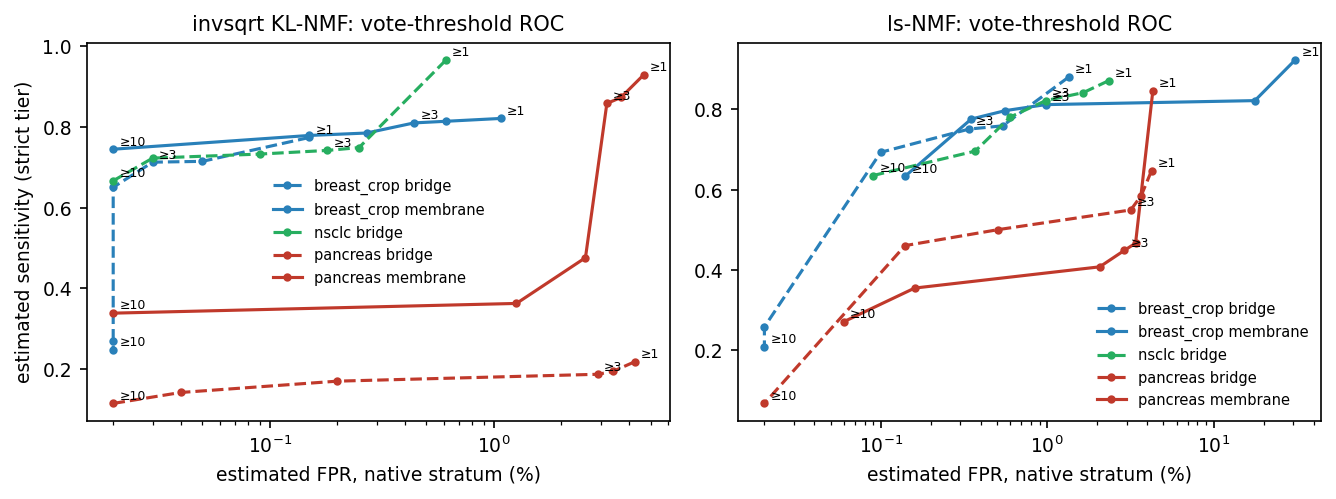
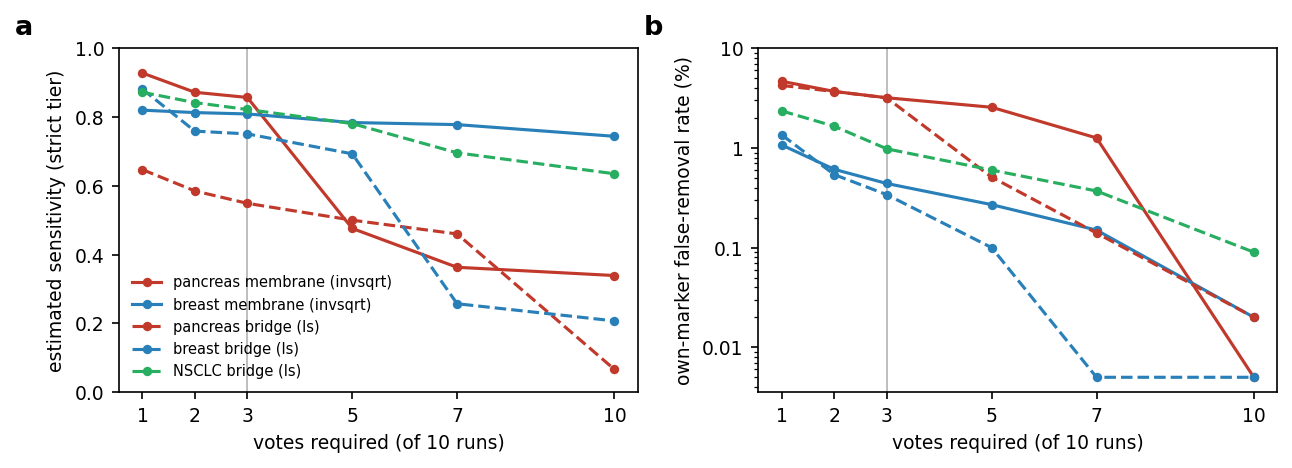
Plain-language metrics, threshold-dial figure, tightened stochasticity text

diff --git a/analysis/cleanup_benchmark/figures.py b/analysis/cleanup_benchmark/figures.py
@@ -66,47 +66,54 @@ fig.savefig(f'{OUT}/benchmark_fig1.png', bbox_inches='tight')
 print('fig1 done')
 
 # ---------- Figure 2: stochasticity ----------
+fo = pd.read_csv(f'{R}/pancreas_factor_overlap.csv')
 ov = json.load(open(f'{R}/pancreas_removal_overlap.json'))
-fig, axes = plt.subplots(1, 3, figsize=(11, 3.1),
-    gridspec_kw={'width_ratios': [1, 1, 1.4]})
-ax = axes[0]
-ax.annotate('a', (-0.28, 1.06), xycoords='axes fraction', fontsize=13, fontweight='bold')
-x = np.arange(1, 11)
-ax.bar(x - 0.2, np.array(ov['invsqrt_kl']['n_removed']) / 1e6, width=0.4,
-    color='#8e44ad', label='invsqrt KL-NMF')
-ax.bar(x + 0.2, np.array(ov['ls_nmf']['n_removed']) / 1e6, width=0.4,
-    color='#16a085', label='ls-NMF')
-ax.set_xlabel('random seed'); ax.set_ylabel('molecules removed (millions)')
-ax.set_xticks(range(1, 11))
-ax.legend(frameon=False, fontsize=8)
-ax.set_title('total removal by seed')
+dec_path = f'{R}/pancreas_decisions.csv'
+have_dec = os.path.exists(dec_path)
+vcolors = {'ls_nmf': '#16a085', 'invsqrt_kl': '#8e44ad'}
+vnames = {'ls_nmf': 'ls-NMF', 'invsqrt_kl': 'invsqrt\nKL-NMF'}
 
-ax = axes[1]
-ax.annotate('b', (-0.28, 1.06), xycoords='axes fraction', fontsize=13, fontweight='bold')
-J = np.array(ov['invsqrt_kl']['jaccard'])
-im = ax.imshow(J, vmin=0, vmax=1, cmap='viridis')
-ax.set_xticks(range(10), range(1, 11), fontsize=7)
-ax.set_yticks(range(10), range(1, 11), fontsize=7)
-ax.set_xlabel('seed'); ax.set_ylabel('seed')
-ax.set_title('removal-set overlap (Jaccard),\ninvsqrt KL-NMF')
-plt.colorbar(im, ax=ax, fraction=0.045)
+def dot_panel(ax, data, letter, ylab, title):
+    for k, variant in enumerate(['ls_nmf', 'invsqrt_kl']):
+        v = np.asarray(data[variant])
+        x = k + (np.random.default_rng(0).uniform(-0.14, 0.14, len(v)))
+        ax.scatter(x, v, s=9, color=vcolors[variant], alpha=0.6)
+        ax.hlines(np.median(v), k - 0.25, k + 0.25, color='black', lw=1.8)
+    ax.set_xticks([0, 1], [vnames['ls_nmf'], vnames['invsqrt_kl']])
+    ax.set_xlim(-0.6, 1.6)
+    ax.set_ylim(0, 1.02)
+    ax.set_ylabel(ylab)
+    ax.set_title(title, fontsize=9)
+    ax.annotate(letter, (-0.28, 1.05), xycoords='axes fraction',
+        fontsize=13, fontweight='bold')
 
-ax = axes[2]
-ax.annotate('c', (-0.55, 1.06), xycoords='axes fraction', fontsize=13, fontweight='bold')
-pp = pairs_df[(pairs_df['variant'] == 'invsqrt_kl') & (pairs_df['method'] == 'membrane')
-              & pairs_df['arm'].str.match(r'invsqrt_kl/membrane/s\d')]
-piv = pp.pivot_table(index='pair', columns='seed', values='power_strict')
-piv = piv.dropna().sort_values(1)
-im = ax.imshow(piv.values, aspect='auto', cmap='RdYlBu', vmin=0, vmax=1)
-ax.set_xticks(range(piv.shape[1]), [f's{int(c)}' for c in piv.columns])
-ax.set_yticks(range(len(piv)), [short(p) for p in piv.index], fontsize=5)
-ax.set_title('per-pair sensitivity by seed,\ninvsqrt KL-NMF / membrane')
-plt.colorbar(im, ax=ax, fraction=0.03, label='sensitivity')
+fig, axes = plt.subplots(1, 3, figsize=(9.2, 3.0))
+dot_panel(axes[0],
+    {v: fo[fo['variant'] == v]['corr'].values for v in ['ls_nmf', 'invsqrt_kl']},
+    'a', 'gene-ownership correlation\nof matched factors', 'factor variability')
+if have_dec:
+    dec = pd.read_csv(dec_path)
+    dec = dec[dec['method'] == 'membrane']
+    dd = {}
+    for variant in ['ls_nmf', 'invsqrt_kl']:
+        sets = {s_: set(map(tuple, g[['source', 'target']].values))
+                for s_, g in dec[dec['variant'] == variant].groupby('seed')}
+        vals = []
+        seeds = sorted(sets)
+        for i in range(len(seeds)):
+            for j in range(i + 1, len(seeds)):
+                a, b = sets[seeds[i]], sets[seeds[j]]
+                vals.append(len(a & b) / max(len(a | b), 1))
+        dd[variant] = vals
+    dot_panel(axes[1], dd, 'b', 'overlap of removal decisions\n(Jaccard)',
+        'scoring variability')
+J = {v: np.array(ov[v]['jaccard'])[np.triu_indices(10, 1)] for v in ['ls_nmf', 'invsqrt_kl']}
+dot_panel(axes[2], J, 'c', 'overlap of removed molecules\n(Jaccard)', 'net effect')
 fig.tight_layout()
 fig.savefig(f'{OUT}/benchmark_fig2.png', bbox_inches='tight')
 print('fig2 done')
 
-# ---------- Figure 3: vote-threshold ROC ----------
+# ---------- Figure 3: vote-threshold trade-off ----------
 sweep_log = sys.argv[1] if len(sys.argv) > 1 else None
 if sweep_log and os.path.exists(sweep_log):
     rows = []
@@ -119,40 +126,30 @@ if sweep_log and os.path.exists(sweep_log):
                 method=m[5], sens=float(m[6]), fpr=float(m[8]), worst=float(m[9])))
     sw = pd.DataFrame(rows)
     sw.to_csv(f'{R}/vote_sweep_all.csv', index=False)
-    fig, axes = plt.subplots(1, 2, figsize=(9, 3.4))
-    colors = {'pancreas': '#c0392b', 'breast_crop': '#2980b9', 'nsclc': '#27ae60'}
-    styles = {'membrane': '-', 'bridge': '--'}
-    ax = axes[0]
-    for (dsname, variant, method), g in sw[sw['variant'] == 'invsqrt_kl'].groupby(
-            ['dataset', 'variant', 'method']):
-        g = g.sort_values('thr')
-        fx = np.maximum(g['fpr'] * 100, 0.02)
-        ax.plot(fx, g['sens'], styles[method], marker='o', ms=3,
-            color=colors[dsname], label=f'{dsname} {method}')
-        for _, r in g.iterrows():
-            if r['thr'] in (1, 3, 10):
-                ax.annotate(f"≥{int(r['thr'])}", (max(r['fpr'] * 100, 0.02), r['sens']),
-                    fontsize=6, xytext=(3, 2), textcoords='offset points')
-    ax.set_xscale('log')
-    ax.set_xlabel('estimated FPR, native stratum (%)')
-    ax.set_ylabel('estimated sensitivity (strict tier)')
-    ax.set_title('invsqrt KL-NMF: vote-threshold ROC')
-    ax.legend(frameon=False, fontsize=7)
-    ax = axes[1]
-    for (dsname, variant, method), g in sw[sw['variant'] == 'ls_nmf'].groupby(
-            ['dataset', 'variant', 'method']):
-        g = g.sort_values('thr')
-        fx = np.maximum(g['fpr'] * 100, 0.02)
-        ax.plot(fx, g['sens'], styles[method], marker='o', ms=3,
-            color=colors[dsname], label=f'{dsname} {method}')
-        for _, r in g.iterrows():
-            if r['thr'] in (1, 3, 10):
-                ax.annotate(f"≥{int(r['thr'])}", (max(r['fpr'] * 100, 0.02), r['sens']),
-                    fontsize=6, xytext=(3, 2), textcoords='offset points')
-    ax.set_xscale('log')
-    ax.set_xlabel('estimated FPR, native stratum (%)')
-    ax.set_title('ls-NMF: vote-threshold ROC')
-    ax.legend(frameon=False, fontsize=7)
+    combos = [('pancreas', 'invsqrt_kl', 'membrane', '#c0392b', '-', 'pancreas membrane (invsqrt)'),
+              ('breast_crop', 'invsqrt_kl', 'membrane', '#2980b9', '-', 'breast membrane (invsqrt)'),
+              ('pancreas', 'ls_nmf', 'bridge', '#c0392b', '--', 'pancreas bridge (ls)'),
+              ('breast_crop', 'ls_nmf', 'bridge', '#2980b9', '--', 'breast bridge (ls)'),
+              ('nsclc', 'ls_nmf', 'bridge', '#27ae60', '--', 'NSCLC bridge (ls)')]
+    fig, axes = plt.subplots(1, 2, figsize=(8.6, 3.2))
+    for ax in axes:
+        ax.axvline(3, color='grey', lw=0.8, alpha=0.6)
+        ax.set_xticks([1, 2, 3, 5, 7, 10])
+        ax.set_xlabel('votes required (of 10 runs)')
+    for dsname, variant, method, color, style, lab in combos:
+        g = sw[(sw['dataset'] == dsname) & (sw['variant'] == variant) &
+               (sw['method'] == method)].sort_values('thr')
+        axes[0].plot(g['thr'], g['sens'], style, marker='o', ms=3.5, color=color, label=lab)
+        axes[1].plot(g['thr'], np.maximum(g['fpr'] * 100, 0.005), style, marker='o',
+            ms=3.5, color=color, label=lab)
+    axes[0].set_ylabel('estimated sensitivity (strict tier)')
+    axes[0].set_ylim(0, 1)
+    axes[0].annotate('a', (-0.2, 1.04), xycoords='axes fraction', fontsize=13, fontweight='bold')
+    axes[0].legend(frameon=False, fontsize=7)
+    axes[1].set_yscale('log')
+    axes[1].set_yticks([0.01, 0.1, 1, 10], ['0.01', '0.1', '1', '10'])
+    axes[1].set_ylabel('own-marker false-removal rate (%)')
+    axes[1].annotate('b', (-0.22, 1.04), xycoords='axes fraction', fontsize=13, fontweight='bold')
     fig.tight_layout()
     fig.savefig(f'{OUT}/benchmark_fig3.png', bbox_inches='tight')
     print('fig3 done')

diff --git a/docs/benchmarks.md b/docs/benchmarks.md
@@ -89,86 +89,84 @@ largest leakage pairs (exocrine → ductal).
 ## From excess removal to sensitivity and specificity
 
 The benchmark's two axes are estimators of the standard classification
-quantities, each computed on a stratum where the truth is nearly known:
+quantities, each computed on a subset of molecules where the truth is nearly known:
 
 - **Estimated sensitivity.** For strict-tier markers, the excess above the
   zero-exposure baseline estimates the number of truly leaked molecules, so
   the fraction of excess removed is an estimate of TP/(TP+FN) on that
-  stratum. Its bias: it samples leakage carried by source-specific genes —
-  the *easiest* leakage to attribute — so it is an optimistic stratum for any
-  marker-driven method.
+  subset. Its bias: it samples leakage carried by source-specific genes —
+  the *easiest* leakage to attribute — so the estimate is optimistic for
+  any marker-driven method.
 - **Estimated false-positive rate.** Molecules of a cell type's own marker
-  genes, inside cells of that type, are almost surely genuine; their removal
-  rate is a direct FPR estimate ($\mathrm{specificity} = 1 - \mathrm{FPR}$). Its bias runs the
-  other way: it samples the molecules easiest to keep. A worst-case
-  companion — the most-affected pair's retention — tracks the shared-gene
-  erasures (e.g. CFTR, genuinely expressed by both exocrine and ductal cells)
-  that pooled numbers hide.
+  genes, inside cells of that type, are almost surely genuine. The fraction
+  of them a correction removes — below, the **own-marker false-removal
+  rate** — therefore estimates the false-positive rate
+  ($\mathrm{specificity} = 1 - \mathrm{FPR}$). Its bias runs the other
+  way: it samples the molecules easiest to keep. A worst-case companion —
+  retention on the most-affected cell-type pair — tracks the shared-gene
+  erasures (e.g. CFTR, genuinely expressed by both exocrine and ductal
+  cells) that pooled numbers hide.
 
-The two strata bracket the unmeasurable middle (shared and non-distinctive
-genes), and all headline results below are reported in these terms.
+The two gene sets bracket the unmeasurable middle (shared and
+non-distinctive genes), and all headline results below are reported in
+these terms.
 
 ## Stochasticity of factorization and scoring
 
-Rerunning the identical pipeline with different random seeds changes the
-correction substantially (Figure 2). On the pancreas dataset, ten seeds of
-the default membrane-scoring pipeline remove between 1.07 and 1.54 million
-molecules (invsqrt KL-NMF; 0.42-0.80 million for ls-NMF), and the removal
-*sets* of any two seeds share only ~57% of molecules (median Jaccard;
-~45% for ls-NMF). At the pair level, sensitivity can swing from 0.9 to
-near 0 across seeds (Figure 2c).
-
-The source of this variability is structural, not numerical. KL-type NMF is
-a mixture (topic) model; with the rank set above the number of well-separated
-expression programs, the surplus factors face many near-equivalent choices —
-duplicate a large program, split one, or form diffuse blends — and
-multiplicative updates lock each restart into a different discrete gene
-partition (81% of invsqrt loadings are zero; matched factors across seeds
-share only ~43% of their owned genes). Restart objectives span ~2% while the
-factor structures differ qualitatively, and the objective does not predict
-cleanup quality — so best-objective selection among restarts cannot resolve
-the ambiguity, and neither can more restarts (tripling the restart pool left the structural variation intact). Scoring inherits this
-variability twice over: a pair's removal *decision* may fall below threshold
-when its evidence is split across factors, and the removal *labels* may be
-absent when no factor owns the leaked molecules. Dense ls-NMF factors are far
-more reproducible (matched ownership correlation 0.90 vs 0.43) but commit
-weakly to molecule labels, trading instability for insensitivity — the two
-variants fail at different stages rather than one being uniformly better.
+Rerunning the identical pipeline with a different random seed changes the
+result at every level (Figure 2). The factorization itself is unstable
+under invsqrt KL-NMF: factors matched across two runs agree only weakly in
+which genes they own (median correlation 0.48, versus 0.92 for the dense
+ls-NMF factors; Figure 2a). The instability originates in surplus rank:
+with more factors than well-separated expression programs, each restart
+commits to a different, near-equivalent split of the surplus, and the
+training objective neither distinguishes these solutions nor predicts
+their cleanup quality — so selecting the best-objective restart does not
+help, and neither do more restarts. The variability propagates through
+scoring: the sets of removal decisions (source → target rules) that
+survive thresholds overlap only partially between seeds (Figure 2b), and
+the final molecule removal sets of two runs share only about half their
+members (median Jaccard 0.57 invsqrt, 0.45 ls-NMF; Figure 2c) despite
+similar totals. The two variants are exposed at different levels: invsqrt
+varies mostly in factor ownership, ls-NMF mostly in which scoring
+decisions clear the threshold.
 
 ![Figure 2](figures/benchmark_fig2.png)
 
-**Figure 2. Correction stochasticity across random seeds (pancreas,
-membrane scoring).** **(a)** Total molecules removed by ten reruns of the
-identical pipeline differing only in random seed. **(b)** Pairwise overlap
-(Jaccard index) of the removal sets, invsqrt KL-NMF. **(c)** Per-pair
-estimated sensitivity across seeds. Take-home: the single-fit correction is
-effectively a lottery — comparable total removal, but only about half the
-individual molecules agree between any two runs, and individual pairs flip
-between fully cleaned and untouched.
+**Figure 2. Stochasticity of factorization and scoring (pancreas,
+membrane scoring, ten random seeds).** Each dot compares two seeds; bars
+mark medians. **(a)** Factor variability: gene-ownership correlation of
+matched factors between two runs. **(b)** Scoring variability: overlap
+(Jaccard index) of the kept removal-decision sets. **(c)** Net effect:
+overlap of the final removed-molecule sets. Take-home: a single-fit
+correction is effectively a lottery — under invsqrt KL-NMF the factors
+themselves differ between runs; under ls-NMF the factors are stable but
+the scoring decisions still vary; either way only about half of the
+individual removed molecules agree between two runs.
 
 ## Ensemble corrections by molecule voting
 
 Since each seed's correction is a per-molecule decision, an ensemble is
 natural: run the pipeline N times, count for each molecule how many runs
 removed it, and remove molecules whose vote count reaches a threshold. The
-threshold is a sensitivity/specificity dial, and sweeping it traces an
-estimated ROC curve (Figure 3).
+threshold is a sensitivity/specificity dial; Figure 3 shows both sides of
+the trade-off as the threshold varies.
 
-Three properties of the resulting curves (Figure 3) are noteworthy. First,
-the operating knee consistently sits at a *minority* vote — around 3 of
-10 — not at majority: because factor ownership is a lottery, the factor
-structure that correctly cleans a given pair arises in only a minority of
-restarts, so demanding majority agreement discards genuine cleanup
-(sensitivity halves between thresholds 3 and 5 on pancreas membrane
-scoring). Second, the threshold is not merely a power dial but a necessary
-safety mechanism: the permissive union (≥1 vote) accumulates every seed's
-idiosyncratic overcorrections, reaching a 31% native-stratum FPR for ls-NMF
-on the breast dataset, which the ≥3 threshold cuts to 1% at nearly the same
-sensitivity. Third, the vote count separates systematic removals from
-idiosyncratic ones: worst-case pair specificity rises toward 1 at unanimity,
-meaning shared-gene erasures are low-vote events contributed by one or two
-seeds, while genuine leakage removal accumulates votes up to its lottery
-ceiling.
+Three properties stand out (Figure 3). First, the best operating point is
+a *minority* vote — around 3 of 10 — not a majority: because factor
+ownership is a lottery, the factor structure that correctly cleans a given
+pair arises in only a minority of restarts, so demanding majority
+agreement discards genuine cleanup (sensitivity halves between thresholds
+3 and 5 on pancreas membrane scoring; Figure 3a). Second, the threshold is
+also a necessary safety mechanism: requiring a single vote (the union of
+all runs' removals) accumulates every run's idiosyncratic overcorrections —
+up to a 31% own-marker false-removal rate in the worst case (ls-NMF,
+breast membrane) — which the ≥3 threshold cuts to about 1% at nearly the
+same sensitivity (Figure 3b). Third, the vote count separates systematic
+removals from idiosyncratic ones: retention on the worst-affected pair
+approaches 1 as the threshold rises, meaning shared-gene erasures are
+low-vote events contributed by one or two runs, while genuine leakage
+removal accumulates votes up to its lottery ceiling.
 
 A lighter-weight alternative — pooling only the removal *decisions* across
 seeds and applying them with each fit's own labels, with imported decisions
@@ -180,15 +178,15 @@ threshold number of runs label the molecules correctly.
 
 ![Figure 3](figures/benchmark_fig3.png)
 
-**Figure 3. Vote-threshold ROC for ensemble corrections (10 seeds).**
-Estimated sensitivity (strict tier) versus estimated native-stratum FPR
-(log scale) as the required vote count varies from 1 (union, right end of
-each curve) to 10 (unanimity, left end); selected thresholds annotated.
-Solid lines: membrane scoring; dashed: bridge. Take-home: a vote fraction
-near 30% (≥3 of 10) retains nearly all of the union's sensitivity at a
-fraction of its false-positive cost — the union can be actively unsafe
-(31% FPR, breast ls-NMF) — while majority and stricter thresholds are
-miscalibrated because correct removals are typically minority events
+**Figure 3. The vote threshold is a sensitivity/false-removal dial
+(10 seeds; the recommended variant for each scoring method).**
+**(a)** Estimated sensitivity (strict tier) versus the number of votes
+required to remove a molecule. **(b)** Own-marker false-removal rate
+(log scale) versus the same threshold. The grey line marks the recommended
+threshold of 3. Take-home: around 3 of 10 votes retains nearly all the
+sensitivity of the most permissive setting while cutting false removals by
+up to an order of magnitude; majority and stricter thresholds discard
+genuine cleanup because correct removals are typically minority events
 across restarts.
 
 ## Benchmarks across datasets and scoring methods
@@ -197,7 +195,7 @@ Figure 4 and Table 1 summarize the strict-tier sensitivity of the main
 correction strategies across all dataset × scoring-method × variant
 combinations. Three regularities emerge. The 3-of-10 molecule vote matches
 or exceeds the *best* individual seed in every combination while removing
-the seed dependence entirely, at native-stratum FPR of 0.03-3.2%. The
+the seed dependence entirely, at own-marker false-removal rates of 0.03-3.2%. The
 rule-level consensus captures much of the same benefit where failures are
 decision-stage (it rescues ls-NMF bridge scoring on breast from 0.34 to
 0.78-0.84) but cannot help when no single fit labels the molecules
@@ -208,7 +206,7 @@ stays below 0.2 at every threshold — an argument for factorization-level
 work (anchor-based recovery reached 0.52-0.67 there) rather than better
 ensembling.
 
-| dataset (scoring) | ls-NMF single fits | ls-NMF vote ≥3/10 (FPR) | invsqrt single fits | invsqrt vote ≥3/10 (FPR) |
+| dataset (scoring) | ls-NMF single fits | ls-NMF vote ≥3/10 (false-removal %) | invsqrt single fits | invsqrt vote ≥3/10 (false-removal %) |
 |---|---|---|---|---|
 | pancreas (membrane) | 0.38 – 0.44 | 0.45 (2.9%) | 0.40 – 0.88 | **0.86** (3.2%) |
 | pancreas (bridge) | 0.14 – 0.53 | **0.55** (3.2%) | 0.15 – 0.17 | 0.19 (2.9%) |
@@ -219,7 +217,7 @@ ensembling.
 **Table 1. Strict-tier estimated sensitivity across the benchmark matrix.**
 Single-fit columns give the min-max range over individually evaluated seed
 refits; vote columns give the 3-of-10 molecule-vote ensemble (votes pooled
-over ten seeds) with its estimated native-stratum FPR in parentheses. Bold marks the strategy reaching the
+over ten seeds) with its own-marker false-removal rate in parentheses. Bold marks the strategy reaching the
 best (or tied) sensitivity in each row.
 
 ![Figure 4](figures/benchmark_fig4.png)
@@ -267,7 +265,7 @@ cellAdmix it yields three conclusions:
    scoring passes, which parallelize trivially). Remove a molecule when at
    least ~30% of restarts remove it, keeping each restart's native-factor
    check as its internal safety vet. On the benchmark this default achieves
-   0.45-0.86 strict-tier sensitivity at 0.03-3.2% native-stratum FPR,
+   0.45-0.86 strict-tier sensitivity at 0.03-3.2% own-marker false removal,
    always at or above the best individual restart, with the threshold
    exposed as the user's sensitivity/specificity dial — calibrable per
    dataset by exactly the sweep shown in Figure 3. Two known limits bound
